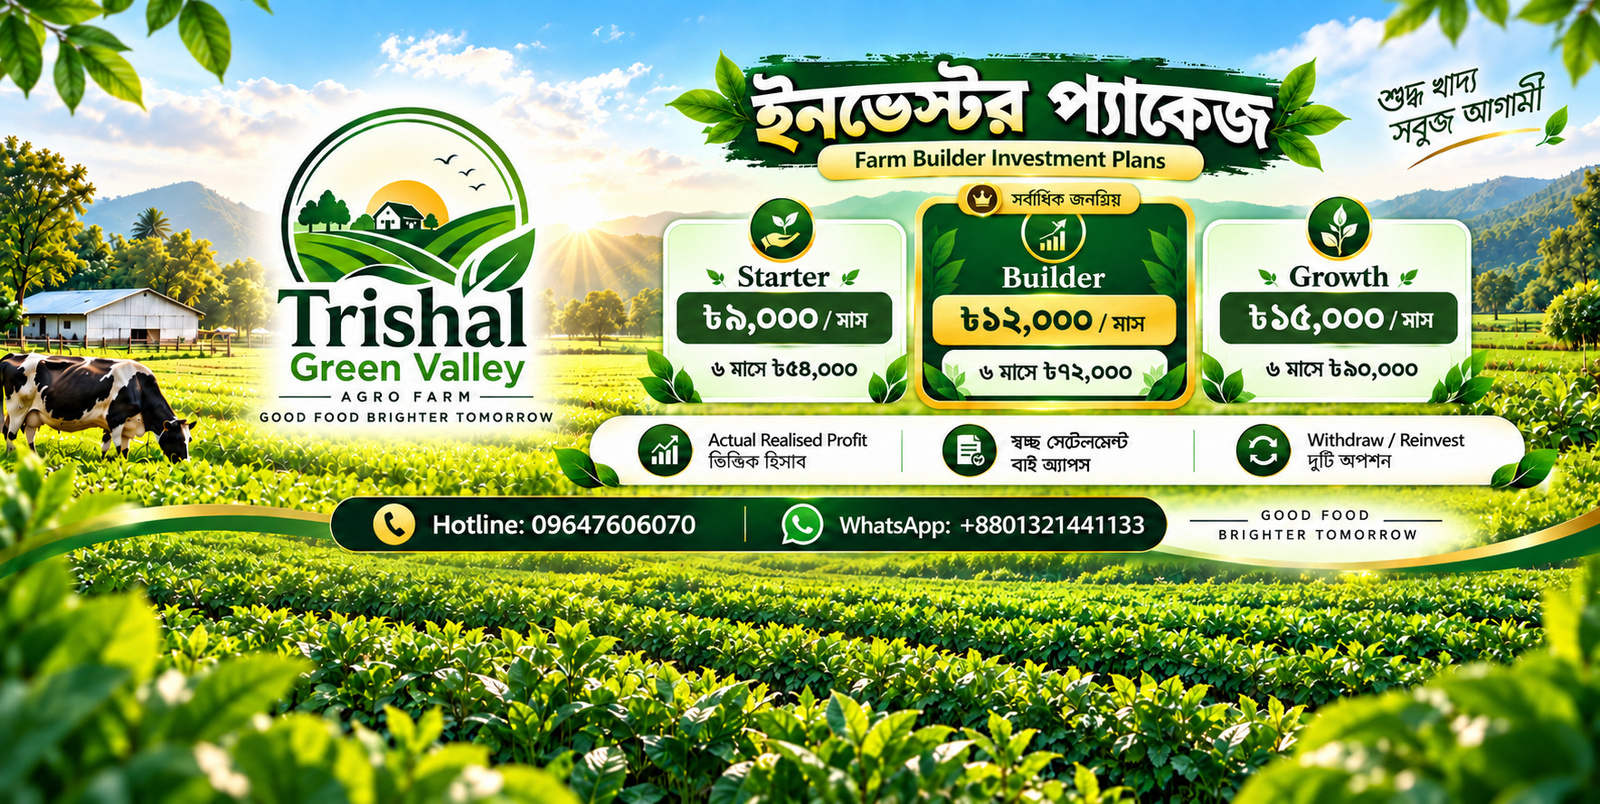
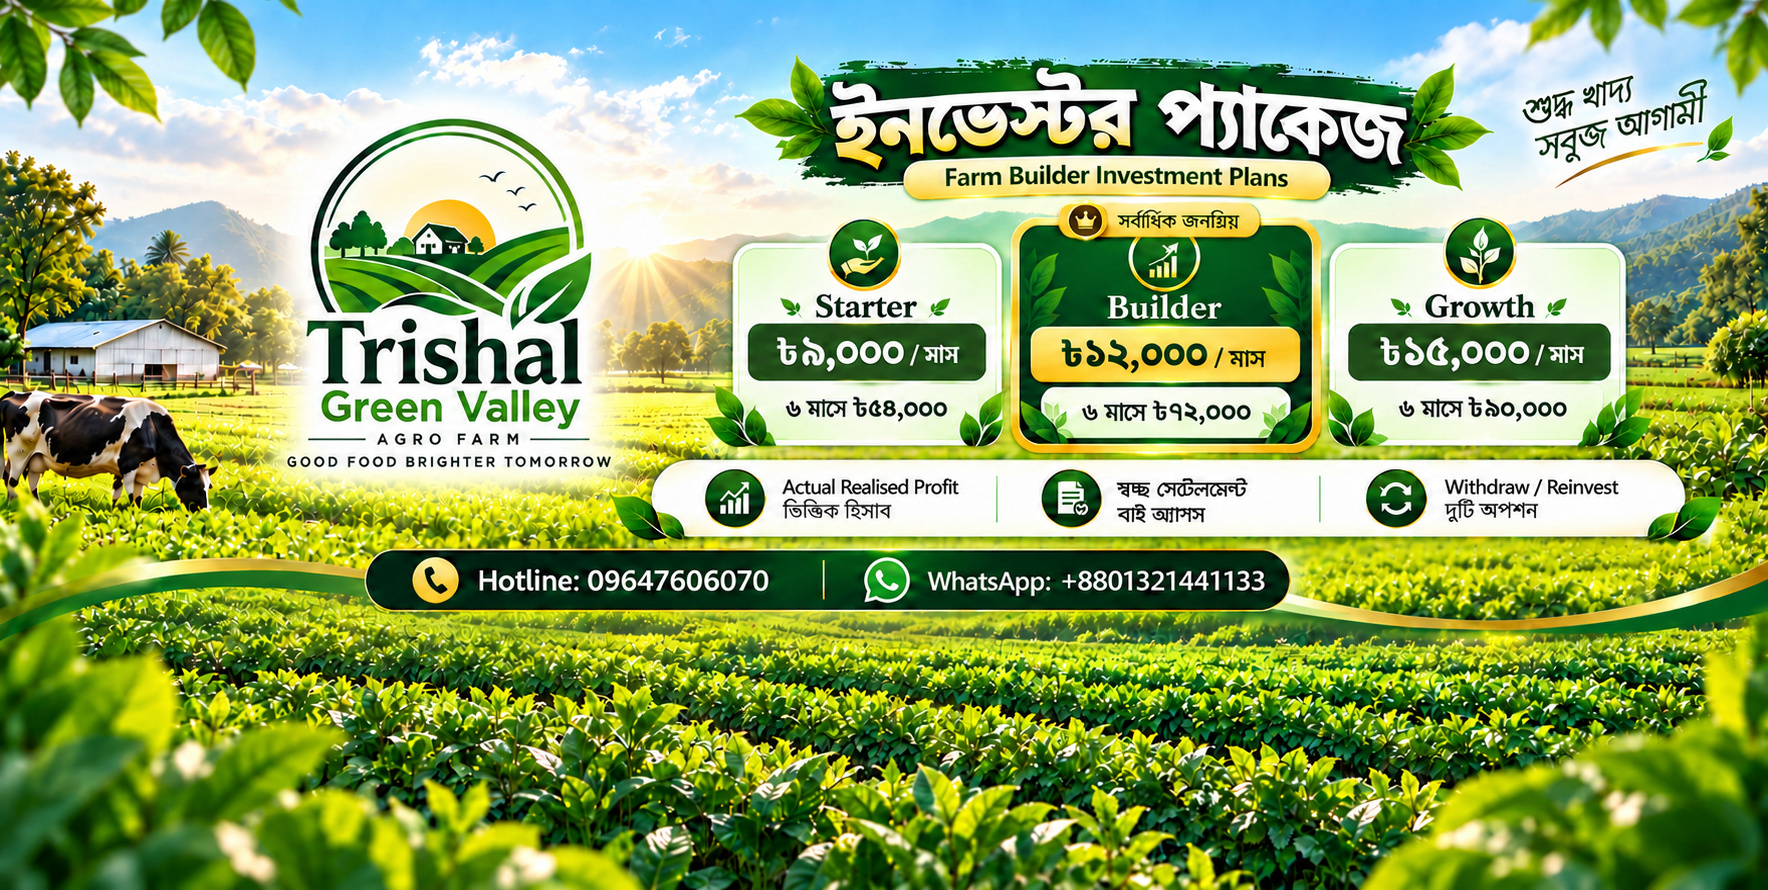
refactor: remove HeroContacts component and update hero slider for better layout handling

diff --git a/tgv-app/src/components/HeroSlider.tsx b/tgv-app/src/components/HeroSlider.tsx
@@ -7,6 +7,7 @@ import {
   useRef,
   useState,
   useSyncExternalStore,
+  type CSSProperties,
   type FocusEvent,
   type KeyboardEvent,
   type PointerEvent,
@@ -18,7 +19,6 @@ import type { HeroSlide } from "@/data/content";
 import type { Locale } from "@/i18n/routing";
 import { formatNumber } from "@/lib/format";
 import { canOptimize } from "@/lib/mediaUrl";
-import HeroContacts from "./HeroContacts";
 
 /** A slide with its alt text already resolved for the current locale. */
 export type ResolvedSlide = Omit<HeroSlide, "alt"> & { alt: string };
@@ -47,33 +47,46 @@ function slideReducer(state: SlideState, action: { to: number; n: number }): Sli
   return { index, seen: state.seen.includes(index) ? state.seen : [...state.seen, index] };
 }
 
+// Poster versions are picked by the shape of the space they get, not by screen width: each screen
+// downloads the version (~9:16, ~4:3 or ~2:1) that fills that space best.
+// Wide enough screens show the wide poster edge to edge. Keep in sync with the poster-wide variant (globals.css).
+const POSTER_COVER_MQ = "(min-aspect-ratio: 8/5)";
 /**
- * A poster (`bare`) slide: the wide artwork on desktop, and the tablet/phone versions on smaller
- * screens via <picture>, so each device downloads only its own file. On desktop the wide artwork
- * fills the hero edge to edge like the photos (object-cover; `objectPosition` keeps its text in
- * view); the small-screen versions are made to fit their frame. A missing small-screen version
- * falls back to the wide artwork shown whole (object-contain) over a blurred copy of itself.
+ * Matches when the space above the button strip (viewport minus the 82px header and ~110px strip)
+ * is at least `ratio` wide. Media queries can't subtract, so heights are taken in 50px bands.
+ */
+const spaceAtLeast = (ratio: number) =>
+  Array.from({ length: 36 }, (_, i) => 400 + i * 50)
+    .map((h) => `(max-height: ${h}px) and (min-width: ${Math.ceil(ratio * (h - 192))}px)`)
+    .join(", ");
+// Thresholds sit halfway (geometrically) between the versions' shapes: √(2 × 4/3), √(4/3 × 9/16).
+const POSTER_WIDE_MQ = `${POSTER_COVER_MQ}, ${spaceAtLeast(1.63)}`;
+const POSTER_TABLET_MQ = spaceAtLeast(0.87);
+
+/**
+ * A poster (`bare`) slide: artwork full of text (prices, phone numbers), so none of it may be
+ * cropped or covered. Via <picture>, each screen downloads only its own version.
+ * - Wide screens: the wide poster fills the hero edge to edge (object-cover; the crop takes 1 part
+ *   from its empty sky for every 3 from the bottom).
+ *   Its bottom third is plain foliage, which is where the button bar sits.
+ * - Other shapes: the poster is shown whole (object-contain) in the space *above* the button bar
+ *   (`--hero-strip`, measured by HeroSlider), over a blurred copy of itself.
  */
 function PosterImage({ slide, first }: { slide: ResolvedSlide; first: boolean }) {
   const base = { alt: slide.alt, sizes: "100vw", quality: 75, priority: first };
   const pick = (src: string, width: number, height: number) =>
     getImageProps({ ...base, src, width, height, unoptimized: !canOptimize(src) }).props;
 
-  const wide = pick(slide.src, 1600, 804);
-  const tablet = slide.tabletSrc ? pick(slide.tabletSrc, 1600, 1250) : null;
-  const mobile = slide.mobileSrc ? pick(slide.mobileSrc, 1080, 1350) : null;
-  // The <img> itself carries the smallest version that exists; <source>s cover larger screens.
+  // Nominal sizes (the artwork's shape); the layout never depends on them.
+  const wide = pick(slide.src, 1768, 890);
+  const tablet = slide.tabletSrc ? pick(slide.tabletSrc, 1448, 1086) : null;
+  const mobile = slide.mobileSrc ? pick(slide.mobileSrc, 941, 1672) : null;
+  // The <img> itself carries the tallest version that exists; <source>s cover wider shapes.
   const img = mobile ?? tablet ?? wide;
-
-  // Fit per breakpoint: cover where a made-to-fit version exists, contain (show whole) otherwise.
-  const fit = `${mobile ? "object-cover" : "object-contain"} ${
-    tablet ? "min-[601px]:object-cover" : "min-[601px]:object-contain"
-  } min-[1024px]:object-cover`;
-  // The blurred backdrop is only needed (and only downloaded) where the artwork is contained.
-  const backdrop = `${mobile ? "hidden" : "block"} ${tablet ? "min-[601px]:hidden" : "min-[601px]:block"} min-[1024px]:hidden`;
 
   return (
     <>
+      {/* Only needed (and only downloaded) where the artwork is contained. */}
       <Image
         src={slide.src}
         alt=""
@@ -83,18 +96,19 @@ function PosterImage({ slide, first }: { slide: ResolvedSlide; first: boolean })
         quality={40}
         loading="lazy"
         unoptimized={!canOptimize(slide.src)}
-        className={`${backdrop} scale-110 object-cover blur-2xl brightness-90`}
+        className="scale-110 object-cover blur-2xl brightness-90 poster-wide:hidden"
       />
-      <picture>
-        <source media="(min-width: 1024px)" srcSet={wide.srcSet ?? wide.src} sizes="100vw" />
-        {tablet && <source media="(min-width: 601px)" srcSet={tablet.srcSet ?? tablet.src} sizes="100vw" />}
-        <img
-          {...img}
-          alt={slide.alt}
-          className={`absolute inset-0 size-full ${fit}`}
-          style={{ ...img.style, objectPosition: slide.objectPosition }}
-        />
-      </picture>
+      <div className="absolute inset-x-0 top-0 bottom-[var(--hero-strip,140px)] poster-wide:bottom-0">
+        <picture>
+          <source media={POSTER_WIDE_MQ} srcSet={wide.srcSet ?? wide.src} sizes="100vw" />
+          {tablet && <source media={POSTER_TABLET_MQ} srcSet={tablet.srcSet ?? tablet.src} sizes="100vw" />}
+          <img
+            {...img}
+            alt={slide.alt}
+            className="absolute inset-0 size-full object-contain poster-wide:object-cover poster-wide:object-[50%_25%]"
+          />
+        </picture>
+      </div>
     </>
   );
 }
@@ -143,8 +157,8 @@ type Props = {
  *   slider never looks "stuck". Pressing Play overrides the holds until the pointer/focus
  *   leaves and comes back.
  * - Also pauses when the tab is hidden or the hero is scrolled off-screen.
- * - A slide with `bare: true` (the investor poster) is shown whole, with no overlay; on phones the
- *   hotline/WhatsApp buttons appear above the hero buttons while it is showing.
+ * - A slide with `bare: true` (the investor poster) gets no overlay and is never covered by the
+ *   buttons (see PosterImage).
  * - Hidden slides are `inert`, so links inside them can't be focused.
  */
 export default function HeroSlider({ slides, label, className, overlay, children }: Props) {
@@ -154,6 +168,9 @@ export default function HeroSlider({ slides, label, className, overlay, children
   const num = (v: number) => formatNumber(v, locale);
   const sectionRef = useRef<HTMLElement>(null);
   const touch = useRef<{ x: number; y: number } | null>(null);
+  const barRef = useRef<HTMLDivElement>(null);
+  /** Height of the button-bar area at the bottom of the hero (posters are fitted above it). */
+  const [strip, setStrip] = useState<number | null>(null);
 
   const [{ index, seen }, dispatch] = useReducer(slideReducer, { index: 0, seen: [0] });
   const [hoverHold, setHoverHold] = useState(false);
@@ -178,6 +195,20 @@ export default function HeroSlider({ slides, label, className, overlay, children
     return () => io.disconnect();
   }, [n]);
 
+  useEffect(() => {
+    const section = sectionRef.current;
+    const bar = barRef.current;
+    if (!section || !bar) return;
+    const measure = () =>
+      setStrip(Math.ceil(section.getBoundingClientRect().bottom - bar.getBoundingClientRect().top) + 8);
+    measure();
+    const ro = new ResizeObserver(measure);
+    ro.observe(section);
+    ro.observe(bar);
+    return () => ro.disconnect();
+  }, [n]);
+  const stripStyle = strip === null ? undefined : ({ "--hero-strip": `${strip}px` } as CSSProperties);
+
   // Re-armed on every index change, so manual navigation restarts the 6s timer.
   useEffect(() => {
     if (!rotating) return;
@@ -189,13 +220,12 @@ export default function HeroSlider({ slides, label, className, overlay, children
 
   if (n === 1) {
     return (
-      <section ref={sectionRef} aria-label={label} className={className}>
+      <section ref={sectionRef} aria-label={label} className={className} style={stripStyle}>
         <div className="absolute inset-0">
           <SlideImage slide={slides[0]} first />
         </div>
         {!slides[0].bare && overlay}
-        <div className="relative z-[2] w-full min-[601px]:w-auto">
-          {slides[0].bare && <HeroContacts className="mb-2 min-[601px]:hidden" />}
+        <div ref={barRef} className="relative z-[2] w-full min-[601px]:w-auto">
           {children}
         </div>
       </section>
@@ -274,6 +304,7 @@ export default function HeroSlider({ slides, label, className, overlay, children
       // pan-y: keep native vertical scrolling, let the carousel own horizontal swipes
       // (also stops browsers treating a swipe as history back/forward).
       className={`${className} touch-pan-y`}
+      style={stripStyle}
       onFocus={onFocus}
       onBlur={onBlur}
       onTouchStart={onTouchStart}
@@ -307,7 +338,7 @@ export default function HeroSlider({ slides, label, className, overlay, children
         {!bareNow && overlay}
 
         <div
-          className="absolute top-3 right-3 z-[3] flex items-center gap-2 min-[601px]:top-[3vw] min-[601px]:right-[3vw] min-[1024px]:top-auto min-[1024px]:right-[5vw] min-[1024px]:bottom-[29px]"
+          className="absolute top-3 right-3 z-[3] flex items-center gap-2 min-[768px]:top-auto min-[768px]:right-[4vw] min-[768px]:bottom-[41px] min-[1024px]:right-[5vw]"
           onPointerEnter={holdOn}
           onPointerLeave={holdOff}
         >
@@ -365,11 +396,11 @@ export default function HeroSlider({ slides, label, className, overlay, children
 
       {/* Hovering a button pauses (the visitor is about to act); the photo itself does not. */}
       <div
+        ref={barRef}
         className="relative z-[2] w-full min-[601px]:w-auto"
         onPointerOver={holdOnInteractive}
         onPointerLeave={holdOff}
       >
-        {bareNow && <HeroContacts className="mb-2 min-[601px]:hidden" />}
         {children}
       </div>
     </section>

diff --git a/tgv-app/src/data/content.ts b/tgv-app/src/data/content.ts
@@ -40,11 +40,10 @@ export const banner: Banner = {
  * Slides whose local file is missing are skipped at build time; with none, the hero shows
  * the green gradient. `objectPosition` (CSS, e.g. "50% 30%") controls the crop focus.
  * `alt` is optional; without it the generic "hero.slideAlt" message is used.
- * `bare: true` marks a poster (artwork with its own text): shown whole, never cropped, and on phones
- * the hotline/WhatsApp buttons appear above the hero buttons.
- * `tabletSrc` (1600×1250, shown 601–1023px) and `mobileSrc` (1080×1350, shown ≤600px) are optional
- * small-screen versions of a poster. Keep their bottom ~15% (tablet) / ~30% (phone) as plain
- * background: the hero buttons and contact buttons sit there. Missing files fall back to `src`.
+ * `bare: true` marks a poster (artwork with its own text): never covered by the hero buttons.
+ * Its `src` is the wide version (~2:1, shown on wide screens, edge to edge: keep the bottom ~30%
+ * plain, the buttons sit there). `tabletSrc` (~4:3) and `mobileSrc` (~9:16) are optional versions
+ * for squarish and tall screens, shown whole above the buttons. Missing files fall back to `src`.
  * TODO(client): add a short real description (en + bn) for each photo. */
 export type HeroSlide = {
   src: string;
@@ -59,9 +58,6 @@ export const heroSlides: HeroSlide[] = [
   {
     src: "/hero/banner.jpg",
     bare: true,
-    // Desktop crops the 2:1 poster to fill the hero: keep the top (title) and the hotline bar in view.
-    objectPosition: "50% 15%",
-    // TODO(client): interim versions assembled from banner.jpg; replace with designer artwork.
     tabletSrc: "/hero/banner-tablet.jpg",
     mobileSrc: "/hero/banner-mobile.jpg",
     alt: {
@@ -171,9 +167,6 @@ export const interestOptions = ["Cattle", "Fisheries", "Dairy", "Poultry", "Othe
 export const contact = {
   phone: "", // TODO(client) e.g. "+880 1XXX-XXXXXX"
   email: "", // TODO(client) e.g. "info@trishalgreenvalley.com"
-  /** Shown as tap-to-call / tap-to-chat buttons on the poster slide on phones. Empty = hidden. */
-  hotline: "09647606070",
-  whatsapp: "+8801321441133",
 };
 
 /* ------------------------------------------------------------------ */

diff --git a/tgv-app/src/components/Hero.tsx b/tgv-app/src/components/Hero.tsx
@@ -6,17 +6,16 @@ import { getAvailableHeroSlides, hasProgressSection } from "@/lib/content";
 /*
  * Image-first hero: every slide is shown bright and uncovered, with only the glass button bar
  * (bottom-left) and the slider controls on top.
- * - Phones (≤600px): 4:5 frame, button bar full width at the bottom, controls top-right.
- * - Tablets (601–1023px): 41:32 frame (matches the 1600×1250 tablet poster), controls top-right.
- * - Desktop (≥1024px): height = 33.34vw + 96px (min 480px); every slide, the poster included,
- *   fills it edge to edge (object-cover), with the button bar and controls along the bottom.
- * Fixed proportions per breakpoint, so changing slides never shifts the page.
- * The gradient is the fallback when no slide images exist.
+ * The hero fills the screen below the 82px sticky header, on every device (the height never
+ * depends on the slide, so changing slides never shifts the page).
+ * - Phones (≤600px): button bar full width at the bottom, slider controls top-right (also up to 767px).
+ * - Wider (≥601px): button bar bottom-left; from 768px the slider controls sit bottom-right.
+ * Photos fill the hero (object-cover); posters are fitted so their text is never covered (see
+ * HeroSlider's PosterImage). The gradient is the fallback when no slide images exist.
  */
 const sectionCls =
-  "relative flex aspect-[4/5] items-end overflow-hidden bg-[linear-gradient(120deg,#183b2c,#6f8063)] px-4 pb-4 text-white " +
-  "min-[601px]:aspect-[41/32] min-[601px]:px-[4vw] min-[601px]:pb-[4vw] " +
-  "min-[1024px]:aspect-auto min-[1024px]:h-[max(480px,calc(33.34vw+96px))] min-[1024px]:px-[5vw] min-[1024px]:pb-[13px]";
+  "relative flex h-[calc(100svh-82px)] min-h-[420px] items-end overflow-hidden bg-[linear-gradient(120deg,#183b2c,#6f8063)] px-4 pb-4 text-white " +
+  "min-[601px]:px-[4vw] min-[601px]:pb-6 min-[1024px]:px-[5vw]";
 
 const barCls =
   "flex w-full gap-2 rounded-xl border border-white/20 bg-[rgba(9,32,22,.55)] p-2 backdrop-blur-md backdrop-saturate-[1.2] " +

diff --git a/tgv-app/src/app/(site)/globals.css b/tgv-app/src/app/(site)/globals.css
@@ -2,6 +2,8 @@
 
 /* Dark mode follows the .dark class set by next-themes (not the OS media query directly). */
 @custom-variant dark (&:where(.dark, .dark *));
+/* Wide screens (by shape, not width): the hero shows the wide poster, edge to edge. Keep in sync with POSTER_COVER_MQ (HeroSlider). */
+@custom-variant poster-wide (@media (min-aspect-ratio: 8/5));
 
 /* Fixed brand palette (template/styles.css). Same in both themes. */
 @theme {
